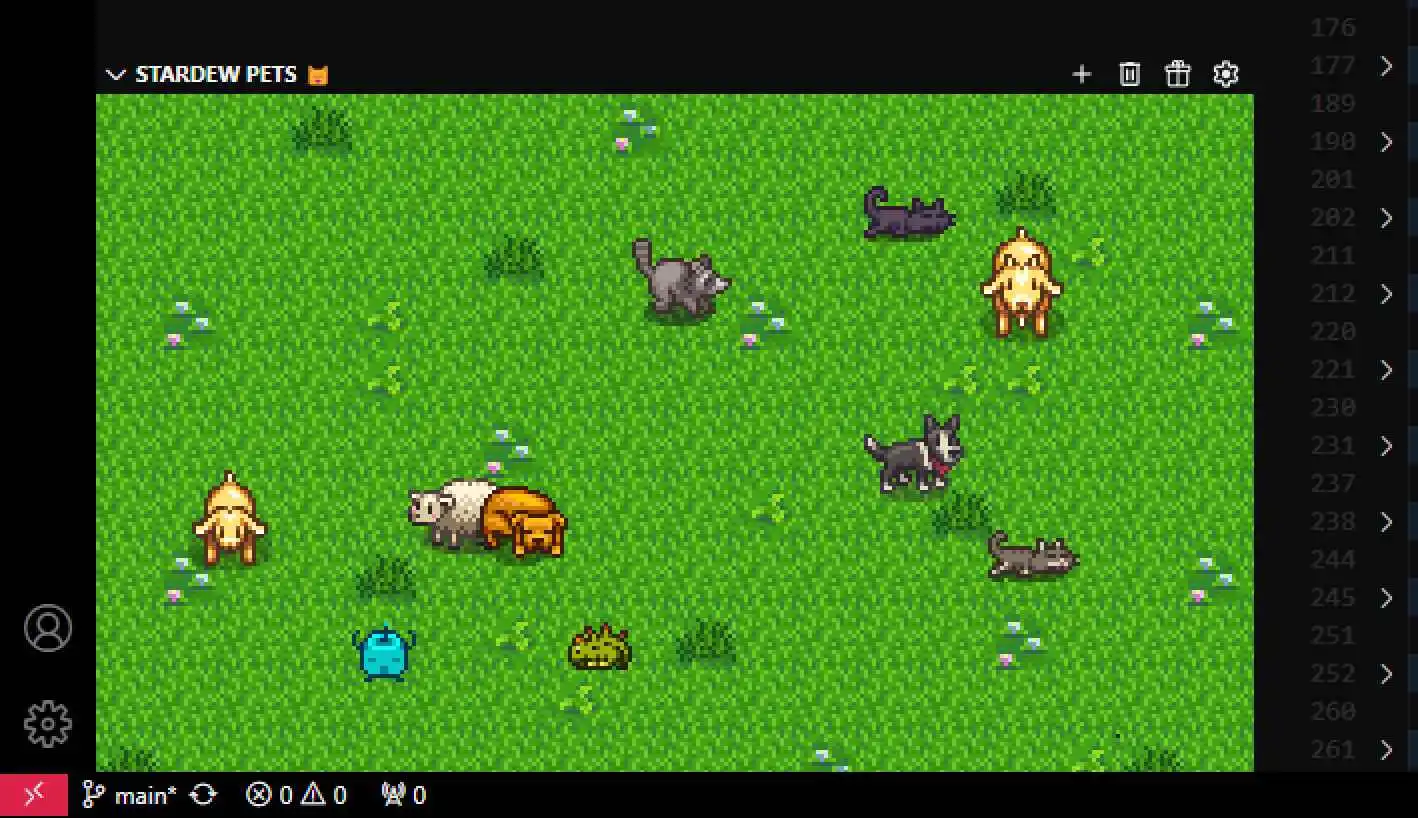
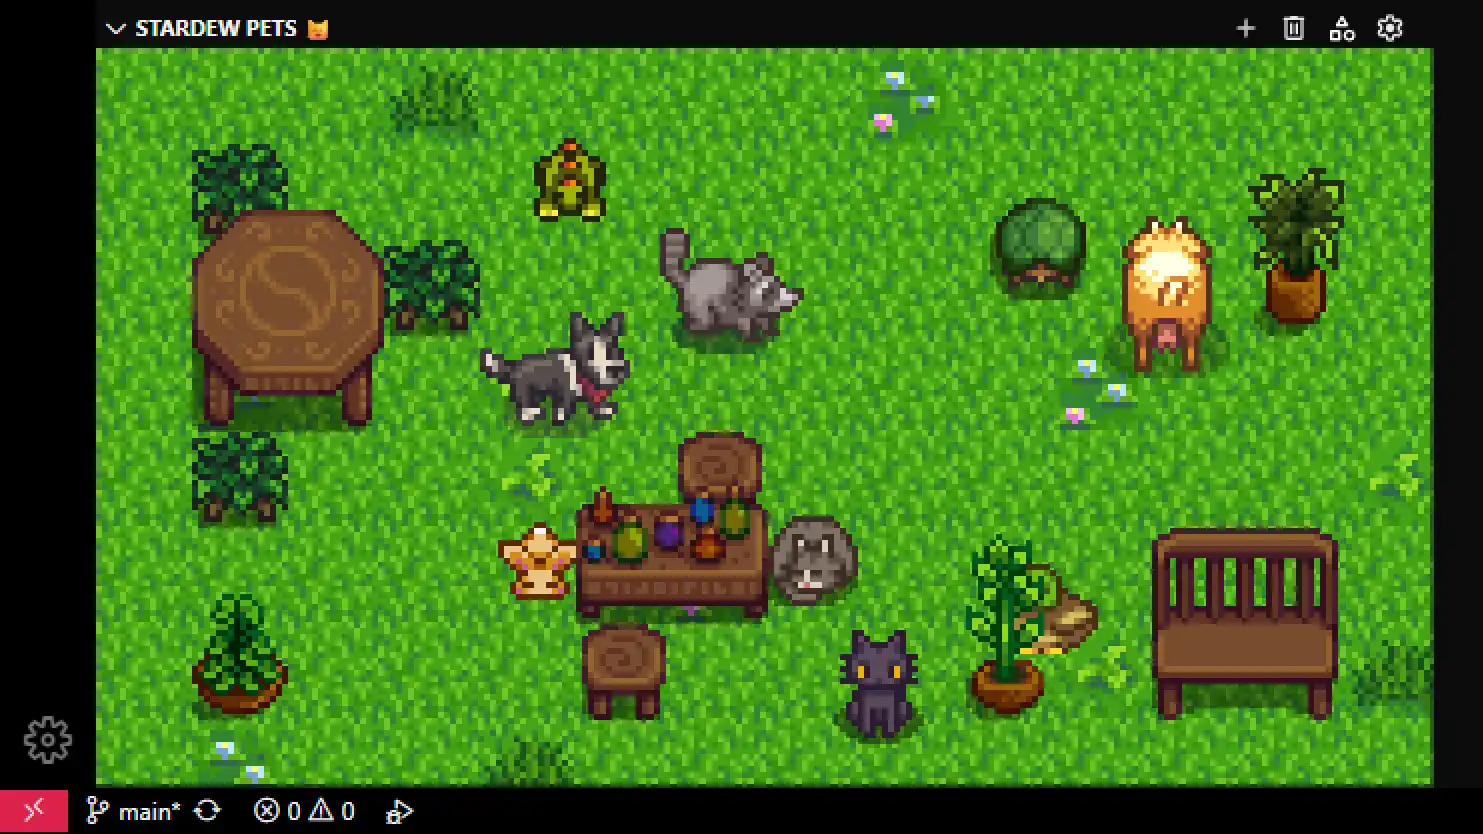
updated stardew pets description & image

diff --git a/Data/JS/main.js b/Data/JS/main.js
@@ -178,9 +178,9 @@ const locales = {
                 },
                 stardewpets: {
                     tit: "Stardew Pets",
-                    con: `Stardew Pets is a VS Code extension with +10K downloads that lets you have Stardew Valley pets accompanying you while you code.
+                    con: `Stardew Pets is a VS Code extension with +11K downloads that lets you have Stardew Valley pets accompanying you while you code.
                         <br><br>
-                        Right now you can have cats, dogs, dinos, turtles, raccoons, goats, sheeps, ostrichs, pigs, rabbits, chicken, cows and junimos as a pet, each with different variants.`,
+                        Aditionaly, you can decorate your pets place with money obtained by protecting them from enemies that may appear.`,
                     b1: "Install&nbsp<i>Stardew Pets</i>",
                 },
                 spyw4re: {
@@ -534,9 +534,9 @@ const locales = {
                 },
                 stardewpets: {
                     tit: "Stardew Pets",
-                    con: `Stardew Pets es una extensión para VS Code con +10K descargas que te permite tener mascotas de Stardew Valley acompañandote mientras programas.
+                    con: `Stardew Pets es una extensión para VS Code con +11K descargas que te permite tener mascotas de Stardew Valley acompañandote mientras programas.
                         <br><br>
-                        Actualmente puedes tener como mascota a gatos, perros, dinos, tortugas, mapaches, cabras, ovejas, avestruces, cerdos, conejos, pollos, vacas y junimos, cada uno con diferentes variantes.`,
+                        Además, podrás decorar el lugar de tus mascotas con dinero obtenido al protegerlas de enemigos que aparezcan.`,
                     b1: "Instalar&nbsp<i>Stardew Pets</i>",
                 },
                 spyw4re: {
